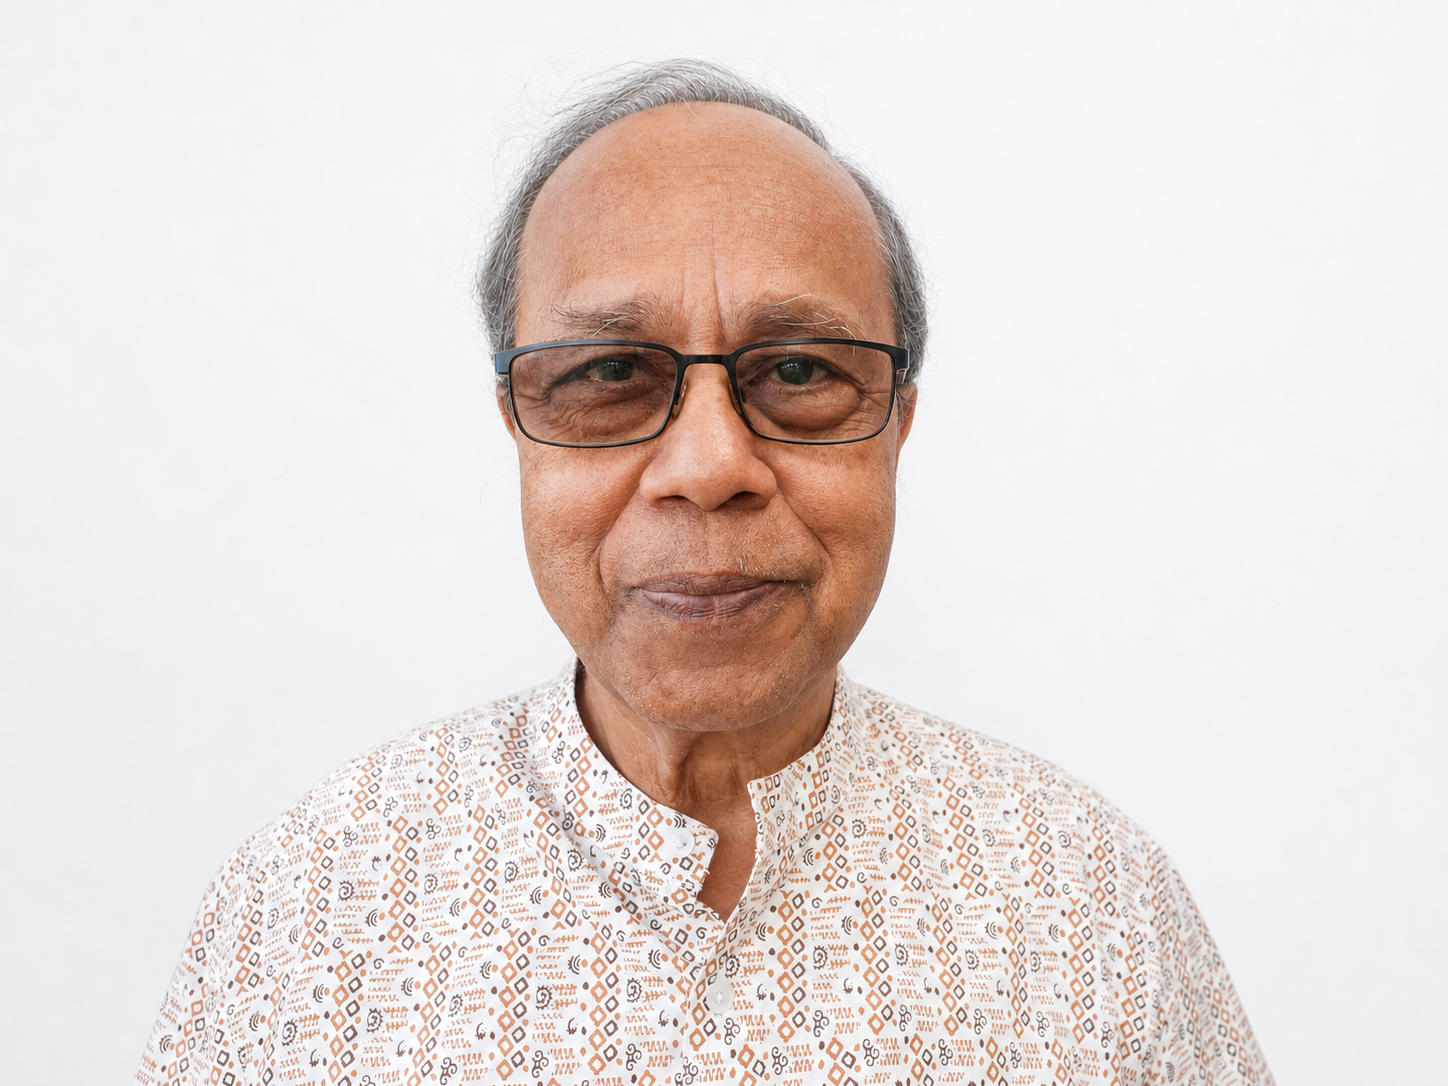
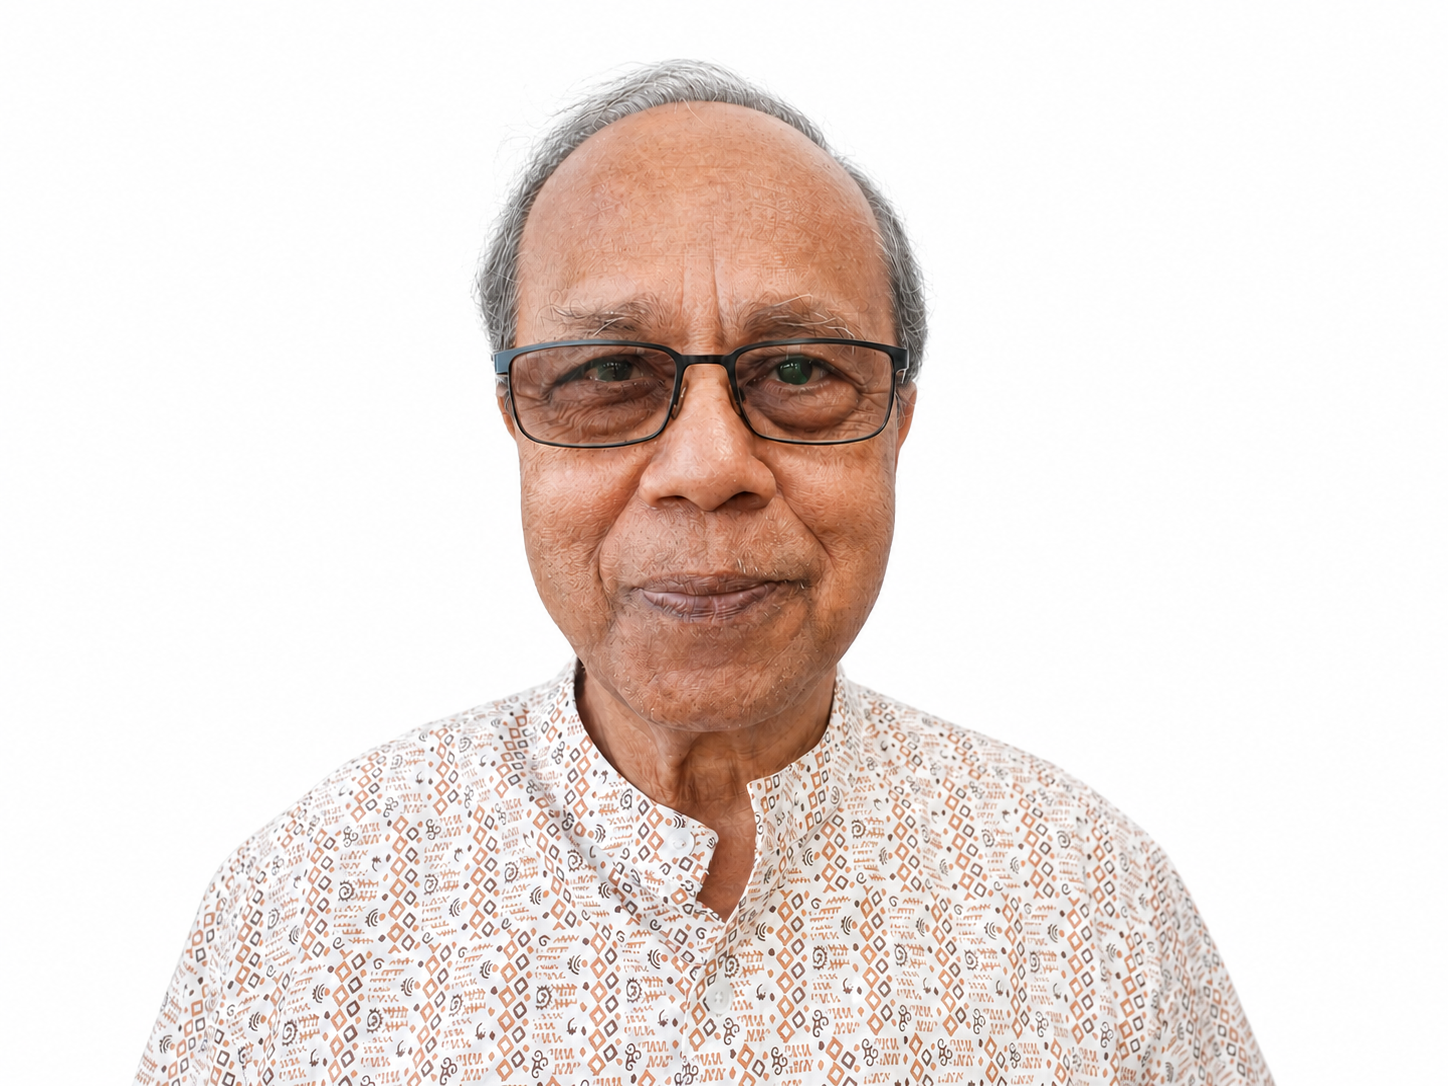
v3.4

diff --git a/src/views/About.tsx b/src/views/About.tsx
@@ -26,6 +26,7 @@ type TeamMember = {
   role: string;
   image: string;
   imageClassName: string;
+  cardImageClassName?: string;
   biography: string[];
 };
 
@@ -42,6 +43,21 @@ const leadershipTeam: TeamMember[] = [
       "Under Dr. Rahman's leadership, MacroHealthPlus Software has become a leading provider of healthcare technology, with a strong focus on developing solutions that integrate seamlessly with existing systems and processes. The company has earned a reputation for delivering high-quality, reliable software that makes a real difference in the lives of healthcare providers and patients.",
       'Dr. Rahman is a visionary leader who is always looking for new and innovative ways to improve healthcare outcomes through technology. He is a strong advocate for the power of technology to make a positive impact in the world and is dedicated to using his expertise to help make this a reality.',
       'With his passion, drive, and commitment to excellence, Dr. Md Aminur Rahman is a leader who is poised to make a lasting impact on the healthcare industry.',
+    ],
+  },
+  {
+    id: 'mizanur-rahman',
+    name: 'Mizanur Rahman',
+    role: 'Chief Operating Officer (COO)',
+    image: '/assets/about_us/team_white/mizanur-rahman.webp',
+    imageClassName: 'object-center',
+    cardImageClassName: 'scale-[1.12] object-center group-hover:scale-[1.145]',
+    biography: [
+      'Mizanur Rahman is a seasoned business leader with more than 25 years of international experience in strategic management, enterprise risk management, business transformation, and digital health. His career spans Bangladesh, Malaysia, Africa, and Afghanistan, where he has led large-scale organizational transformation, operational excellence, business continuity, and digital innovation initiatives.',
+      'Currently serving as the Chief Operating Officer (COO) of MacroHealthPlus, an Australian health technology company, Mizanur is leading the development and implementation of next-generation digital healthcare solutions aimed at transforming healthcare delivery through integrated Hospital Information Management Systems (HIMS), telemedicine, electronic medical records, and AI-enabled health platforms.',
+      'Prior to joining MacroHealthPlus, he held several senior leadership positions, including Head of Risk Management & Control at BRAC and BRAC International, General Manager of Corporate Strategy at Robi Axiata, and Senior Specialist at Axiata Group Berhad, Malaysia. Throughout his career, he has successfully led major projects in enterprise risk management, business continuity planning, business process reengineering, operational excellence, and digital transformation.',
+      'Mizanur holds an M.Sc. in Entrepreneur Economics from the University of Dhaka, an MBA in Digital Technology Management from Royal Roads University, Canada, and a B.Sc. in Engineering from Bangladesh University of Engineering and Technology (BUET). He is also professionally certified in Business Continuity, Risk Management, ISO 27001 Information Security, and ISO 22301 Business Continuity Management.',
+      'He is a Fellow of the Institution of Engineers, Bangladesh (IEB) and an active member of the Project Management Institute (PMI) and ISACA. His passion lies in leveraging technology, strategic leadership, and innovation to build resilient organizations and improve healthcare systems across emerging markets.',
     ],
   },
   {
@@ -110,7 +126,7 @@ function TeamRoster({ members, onSelect }: { members: TeamMember[]; onSelect: (m
         >
           <motion.div className="aspect-[4/3] overflow-hidden rounded-lg bg-white" layoutId={`team-portrait-${member.id}`}>
             <img
-              className={`h-full w-full object-cover transition duration-300 group-hover:scale-[1.025] ${member.imageClassName}`}
+              className={`h-full w-full object-cover transition duration-300 ${member.cardImageClassName ?? 'group-hover:scale-[1.025]'} ${member.imageClassName}`}
               src={member.image}
               alt={member.name}
               loading="lazy"
